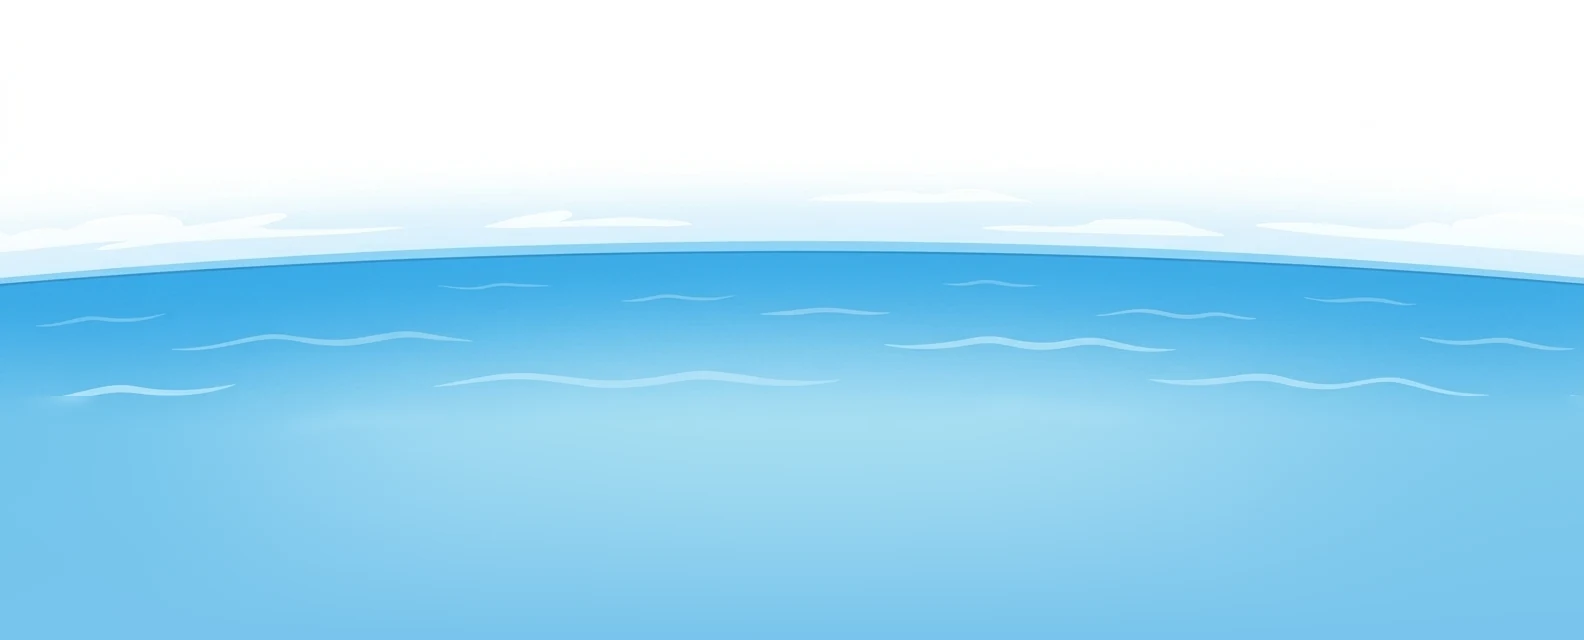
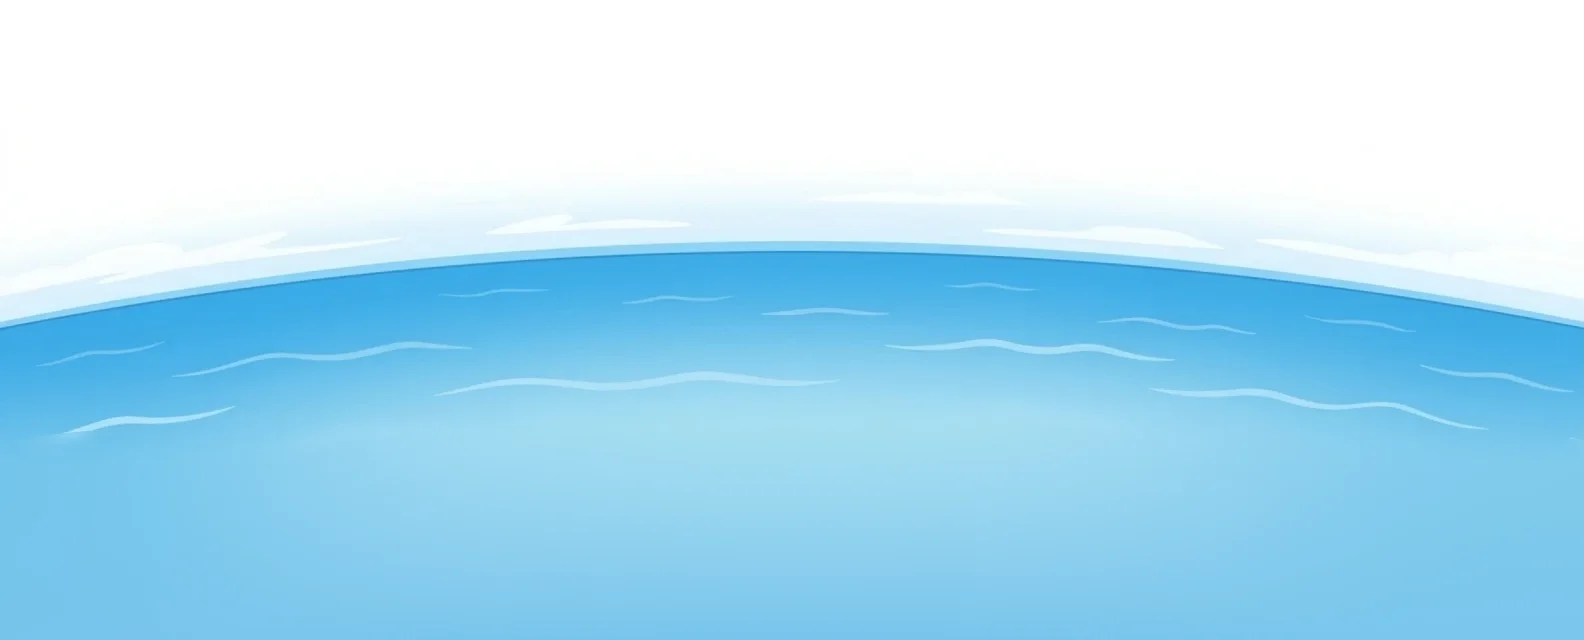
지구 대장정 띠: 수평선을 더 둥글게 · 지금 있는 곳을 보여 주는 작은 지구본(누르면 코스 지도)
Claude-Session: https://claude.ai/code/session_01AgCmpLpbzLfpx6hsfkwK9C

diff --git a/board.html b/board.html
@@ -91,6 +91,8 @@
   .ej-card { overflow: hidden; }
   .ej-scene { position: relative; margin: 10px -20px 0; height: 232px; }
   .ej-scene svg { display: block; position: absolute; inset: 0; overflow: hidden; }
+  .ej-globe { cursor: pointer; filter: drop-shadow(0 2px 4px rgba(20,80,127,.25)); }
+  .ej-globe:hover { filter: drop-shadow(0 3px 7px rgba(20,80,127,.4)); }
   .ej-kid { animation: ejHop .9s ease-in-out infinite; }
   .ej-pin b, .ej-lbl { font-family: inherit; }
   @keyframes ejHop { 0%, 100% { transform: translateY(0); } 50% { transform: translateY(-9px); } }
@@ -311,13 +313,41 @@ function schHtml(v){ const esc = function(x){ return String(x).replace(/[&<>"]/g
   const EJ_PLACE = [['asia',150,28,.85,.9],['euro',300,26,.85,.85],['afr',462,22,1.55,1],['mad',548,98,1,1],['sam',745,24,1.15,1],['nam',875,30,.72,.85],['grn',958,22,.9,.9],['aus',1030,92,.9,.9],['jpn',1100,26,1.2,1.2]];
   function ejSmooth(p){ const L = p.length, m = function(i){ const A = p[i % L], B = p[(i + 1) % L]; return [(A[0] + B[0]) / 2, (A[1] + B[1]) / 2]; };
     let d = 'M' + m(0).join(' '); for (let i = 1; i <= L; i++) { const q = p[i % L], e = m(i); d += 'Q' + q[0] + ' ' + q[1] + ' ' + e[0] + ' ' + e[1]; } return d + 'Z'; }
+  // 작은 지구본: 지금 있는 곳을 가운데로 돌린 지구 (img/journey/globe-tex.webp = 정거원통 지도 1024x512 를 정사영으로 그림). 누르면 코스 지도
+  let ejTex = null, ejTexLoading = false;
+  function ejLoadTex(){ if (ejTex || ejTexLoading) return; ejTexLoading = true;
+    const im = new Image(); im.onload = function(){ try { const c = document.createElement('canvas'); c.width = im.width; c.height = im.height; const g = c.getContext('2d'); g.drawImage(im, 0, 0); ejTex = { w: im.width, h: im.height, d: g.getImageData(0, 0, im.width, im.height).data }; ejDraw(); } catch (e) {} };
+    im.src = EJ_IMG + 'journey/globe-tex.webp'; }
+  function ejPos(cur){ let i = 0; EJ.forEach(function(c, j){ if (cur >= EJ_KM[j] * 1000) i = j; }); const j = Math.min(EJ.length - 1, i + 1), a = EJ[i], b = EJ[j];
+    const f = j === i ? 0 : Math.max(0, Math.min(1, (cur / 1000 - EJ_KM[i]) / (EJ_KM[j] - EJ_KM[i]))); let dl = b[2] - a[2]; if (dl > 180) dl -= 360; if (dl < -180) dl += 360;
+    return [a[1] + (b[1] - a[1]) * f, a[2] + dl * f]; }
+  function ejGlobe(size, lat, lon){
+    const r = Math.PI / 180, l0 = lon * r, p0 = Math.max(-35, Math.min(35, lat - 8)) * r, sp = Math.sin(p0), cp = Math.cos(p0);
+    const proj = function(la, lo){ const p = la * r, d = lo * r - l0, cc = sp * Math.sin(p) + cp * Math.cos(p) * Math.cos(d); return [Math.cos(p) * Math.sin(d), cp * Math.sin(p) - sp * Math.cos(p) * Math.cos(d), cc]; };
+    let img = '';
+    if (ejTex) { const dpr = Math.min(2, window.devicePixelRatio || 1), N = Math.round(size * dpr), c = document.createElement('canvas'); c.width = c.height = N; const g = c.getContext('2d'), o = g.createImageData(N, N), T = ejTex;
+      for (let py = 0; py < N; py++) for (let px = 0; px < N; px++) { const x = (px + .5) / N * 2 - 1, y = 1 - (py + .5) / N * 2, rho = Math.sqrt(x * x + y * y); if (rho > 1) continue;
+        const cc = Math.asin(rho), sc = Math.sin(cc), co = Math.cos(cc), la = rho ? Math.asin(co * sp + y * sc * cp / rho) : p0, lo = l0 + (rho ? Math.atan2(x * sc, rho * co * cp - y * sc * sp) : 0);
+        let u = ((lo / r + 180) % 360 + 360) % 360 / 360, v = (90 - la / r) / 180; const tx = Math.min(T.w - 1, Math.floor(u * T.w)), ty = Math.min(T.h - 1, Math.max(0, Math.floor(v * T.h))), ti = (ty * T.w + tx) * 4, oi = (py * N + px) * 4;
+        o.data[oi] = T.d[ti]; o.data[oi + 1] = T.d[ti + 1]; o.data[oi + 2] = T.d[ti + 2]; o.data[oi + 3] = rho > .985 ? Math.round(255 * (1 - rho) / .015) : 255; }
+      g.putImageData(o, 0, 0); img = '<image href="' + c.toDataURL() + '" x="0" y="0" width="' + size + '" height="' + size + '"/>'; }
+    else { ejLoadTex(); img = '<circle cx="' + size / 2 + '" cy="' + size / 2 + '" r="' + size / 2 + '" fill="#4FA8DE"/>'; }
+    // 코스: 앞면에 보이는 구간만
+    const R = size / 2, at = function(q){ return (R + q[0] * R).toFixed(1) + ' ' + (R - q[1] * R).toFixed(1); };
+    let route = ''; for (let i = 1; i < EJ.length; i++) { const a = proj(EJ[i - 1][1], EJ[i - 1][2]), b = proj(EJ[i][1], EJ[i][2]); if (a[2] > .05 && b[2] > .05) route += 'M' + at(a) + 'L' + at(b); }
+    const me = proj(lat, lon);
+    return img + '<circle cx="' + R + '" cy="' + R + '" r="' + R + '" fill="url(#ejGlobeShade)"/>' +
+      (route ? '<path d="' + route + '" fill="none" stroke="#fff" stroke-width="1.4" stroke-dasharray="1.5 2.5" stroke-linecap="round" opacity=".9"/>' : '') +
+      (me[2] > 0 ? '<circle cx="' + (R + me[0] * R).toFixed(1) + '" cy="' + (R - me[1] * R).toFixed(1) + '" r="' + Math.max(3, size / 18).toFixed(1) + '" fill="#F26A3D" stroke="#fff" stroke-width="1.6"/>' : '') +
+      '<circle cx="' + R + '" cy="' + R + '" r="' + (R - .6) + '" fill="none" stroke="#fff" stroke-width="1.2" opacity=".8"/>';
+  }
   function ejDraw(){
     const el = $('ejScene'); if (!el || !ejState) return;
     const W = el.clientWidth, H = el.clientHeight, narrow = W < 640, k = H / 232, kx = W / 1200;
     const cx = W / 2, rx = W * (narrow ? 0.95 : 0.6833), cy = 473 * k, ry = 403 * k, tr = 24 * k;
     const X0 = narrow ? 30 : 70 * Math.max(kx, .6), X1 = W - X0, goalKm = EJ_KM[EJ_KM.length - 1];
-    // 바다 그림(img/journey/world-sea.webp, 1584x640)의 수평선: 가운데가 높고 양 끝이 조금 낮은 완만한 곡선. o = 수평선에서 아래로 내려온 만큼
-    const yAt = function(x, o){ const t = (x - cx) / (W / 2); return H * (252 / 640) + H * (32 / 640) * t * t + o; };
+    // 바다 그림(img/journey/world-sea.webp, 1584x640)의 수평선: 가운데가 높고 양 끝이 낮은 둥근 곡선(둥근 지구 느낌). o = 수평선에서 아래로 내려온 만큼
+    const yAt = function(x, o){ const t = (x - cx) / (W / 2); return H * (252 / 640) + H * (76 / 640) * t * t + o; };
     const xOf = function(km){ return X0 + (X1 - X0) * km / goalKm; };
     const xMap = function(x){ return X0 + (X1 - X0) * (x - 70) / 1060; };
     const arc = function(xa, xb, o){ let d = ''; for (let x = xa; x < xb; x += 6) d += (d ? 'L' : 'M') + x.toFixed(1) + ' ' + yAt(x, o).toFixed(1); return d + (d ? 'L' : 'M') + xb.toFixed(1) + ' ' + yAt(xb, o).toFixed(1); };
@@ -366,12 +396,16 @@ function schHtml(v){ const esc = function(x){ return String(x).replace(/[&<>"]/g
     const ni = Math.min(EJ.length - 1, ai + 1), ls = narrow ? 54 : 78, right = xc < W * .62, lx = right ? W - ls - (narrow ? 10 : 22) : (narrow ? 10 : 22), ly = narrow ? 6 : 10;
     const boat = EJ_LM[EJ[ni][0]] ? '<g class="ej-lm"><image href="' + EJ_IMG + 'journey/w-' + EJ_LM[EJ[ni][0]] + '.webp" x="' + lx + '" y="' + ly + '" width="' + ls + '" height="' + ls + '" preserveAspectRatio="xMidYMax meet"/>' +
       '<text x="' + (right ? lx + ls : lx) + '" y="' + (ly + ls + (narrow ? 15 : 18)) + '" text-anchor="' + (right ? 'end' : 'start') + '" font-size="' + (narrow ? 11 : 13) + '" font-weight="800" fill="#14507F">' + (cur >= EJ_KM[ni] * 1000 ? '도착 · ' : '다음 · ') + EJ[ni][0] + '</text></g>' : '';
-    el.innerHTML = '<svg width="' + W + '" height="' + H + '" viewBox="0 0 ' + W + ' ' + H + '" aria-hidden="true">' +
+    // 작은 지구본: 랜드마크 바로 안쪽(아이와 먼 쪽) 하늘에 (누르면 코스 지도)
+    const gs = narrow ? 44 : 62, gx = right ? lx - gs - (narrow ? 8 : 14) : lx + ls + (narrow ? 8 : 14), gy = narrow ? 10 : 14, gp = ejPos(cur);
+    const globe = '<defs><radialGradient id="ejGlobeShade" cx=".38" cy=".32" r=".75"><stop offset="0" stop-color="#fff" stop-opacity=".28"/><stop offset=".55" stop-color="#fff" stop-opacity="0"/><stop offset="1" stop-color="#0B3E6B" stop-opacity=".45"/></radialGradient></defs>' +
+      '<g class="ej-globe" transform="translate(' + gx + ' ' + gy + ')" role="button" aria-label="코스 지도 보기"><title>코스 지도 보기</title>' + ejGlobe(gs, gp[0], gp[1]) + '</g>';
+    el.innerHTML = '<svg width="' + W + '" height="' + H + '" viewBox="0 0 ' + W + ' ' + H + '">' +
       '<image href="' + EJ_IMG + 'journey/world-sea.webp" x="0" y="0" width="' + W + '" height="' + H + '" preserveAspectRatio="none"/>' +
       land +
       '<path d="' + arc(X0, X1, tr) + '" fill="none" stroke="#fff" stroke-opacity=".9" stroke-width="5" stroke-dasharray="2 9" stroke-linecap="round"/>' +
       (xc > X0 + .5 ? '<path d="' + arc(X0, xc, tr) + '" fill="none" stroke="#F26A3D" stroke-width="6" stroke-linecap="round"/>' : '') +
-      pins + lbls + boat +
+      pins + lbls + boat + globe +
       '<g class="ej-kid"><image href="' + EJ_IMG + 'journey/' + (sea ? 'kid-boat' : 'kid') + '.webp" x="' + (xc - kw / 2).toFixed(1) + '" y="' + (ky - kh + (sea ? 6 : -2)).toFixed(1) + '" width="' + kw + '" height="' + kh.toFixed(1) + '"/></g></svg>';
   }
   let ejRT = 0; window.addEventListener('resize', function(){ clearTimeout(ejRT); ejRT = setTimeout(ejDraw, 120); });
@@ -773,6 +807,7 @@ const LAUREL_W = '<path d="M 74.7 169.5 L 53.9 157.9 L 37.8 140.1 L 28.3 118.3 L
     html += '<p class="hint o-end" style="text-align:center;">집계는 몇 분마다 새로 고쳐져요 · 마지막 갱신 ' + new Date(data.updated).toLocaleTimeString('ko-KR', { hour: '2-digit', minute: '2-digit' }) + '</p>';
     $('body').innerHTML = html;
     if ($('ejMapBtn')) $('ejMapBtn').onclick = showEarthMap;
+    if ($('ejScene')) $('ejScene').onclick = function(e){ if (e.target.closest && e.target.closest('.ej-globe')) showEarthMap(); };
     ejDraw();
 
     const subOf = function(t){ return mLabel(data.month) + (data.grade ? ' · ' + esc(data.grade) + '학년' : '') + t; };

diff --git a/club/board.html b/club/board.html
@@ -91,6 +91,8 @@
   .ej-card { overflow: hidden; }
   .ej-scene { position: relative; margin: 10px -20px 0; height: 232px; }
   .ej-scene svg { display: block; position: absolute; inset: 0; overflow: hidden; }
+  .ej-globe { cursor: pointer; filter: drop-shadow(0 2px 4px rgba(20,80,127,.25)); }
+  .ej-globe:hover { filter: drop-shadow(0 3px 7px rgba(20,80,127,.4)); }
   .ej-kid { animation: ejHop .9s ease-in-out infinite; }
   .ej-pin b, .ej-lbl { font-family: inherit; }
   @keyframes ejHop { 0%, 100% { transform: translateY(0); } 50% { transform: translateY(-9px); } }
@@ -311,13 +313,41 @@ function schHtml(v){ const esc = function(x){ return String(x).replace(/[&<>"]/g
   const EJ_PLACE = [['asia',150,28,.85,.9],['euro',300,26,.85,.85],['afr',462,22,1.55,1],['mad',548,98,1,1],['sam',745,24,1.15,1],['nam',875,30,.72,.85],['grn',958,22,.9,.9],['aus',1030,92,.9,.9],['jpn',1100,26,1.2,1.2]];
   function ejSmooth(p){ const L = p.length, m = function(i){ const A = p[i % L], B = p[(i + 1) % L]; return [(A[0] + B[0]) / 2, (A[1] + B[1]) / 2]; };
     let d = 'M' + m(0).join(' '); for (let i = 1; i <= L; i++) { const q = p[i % L], e = m(i); d += 'Q' + q[0] + ' ' + q[1] + ' ' + e[0] + ' ' + e[1]; } return d + 'Z'; }
+  // 작은 지구본: 지금 있는 곳을 가운데로 돌린 지구 (img/journey/globe-tex.webp = 정거원통 지도 1024x512 를 정사영으로 그림). 누르면 코스 지도
+  let ejTex = null, ejTexLoading = false;
+  function ejLoadTex(){ if (ejTex || ejTexLoading) return; ejTexLoading = true;
+    const im = new Image(); im.onload = function(){ try { const c = document.createElement('canvas'); c.width = im.width; c.height = im.height; const g = c.getContext('2d'); g.drawImage(im, 0, 0); ejTex = { w: im.width, h: im.height, d: g.getImageData(0, 0, im.width, im.height).data }; ejDraw(); } catch (e) {} };
+    im.src = EJ_IMG + 'journey/globe-tex.webp'; }
+  function ejPos(cur){ let i = 0; EJ.forEach(function(c, j){ if (cur >= EJ_KM[j] * 1000) i = j; }); const j = Math.min(EJ.length - 1, i + 1), a = EJ[i], b = EJ[j];
+    const f = j === i ? 0 : Math.max(0, Math.min(1, (cur / 1000 - EJ_KM[i]) / (EJ_KM[j] - EJ_KM[i]))); let dl = b[2] - a[2]; if (dl > 180) dl -= 360; if (dl < -180) dl += 360;
+    return [a[1] + (b[1] - a[1]) * f, a[2] + dl * f]; }
+  function ejGlobe(size, lat, lon){
+    const r = Math.PI / 180, l0 = lon * r, p0 = Math.max(-35, Math.min(35, lat - 8)) * r, sp = Math.sin(p0), cp = Math.cos(p0);
+    const proj = function(la, lo){ const p = la * r, d = lo * r - l0, cc = sp * Math.sin(p) + cp * Math.cos(p) * Math.cos(d); return [Math.cos(p) * Math.sin(d), cp * Math.sin(p) - sp * Math.cos(p) * Math.cos(d), cc]; };
+    let img = '';
+    if (ejTex) { const dpr = Math.min(2, window.devicePixelRatio || 1), N = Math.round(size * dpr), c = document.createElement('canvas'); c.width = c.height = N; const g = c.getContext('2d'), o = g.createImageData(N, N), T = ejTex;
+      for (let py = 0; py < N; py++) for (let px = 0; px < N; px++) { const x = (px + .5) / N * 2 - 1, y = 1 - (py + .5) / N * 2, rho = Math.sqrt(x * x + y * y); if (rho > 1) continue;
+        const cc = Math.asin(rho), sc = Math.sin(cc), co = Math.cos(cc), la = rho ? Math.asin(co * sp + y * sc * cp / rho) : p0, lo = l0 + (rho ? Math.atan2(x * sc, rho * co * cp - y * sc * sp) : 0);
+        let u = ((lo / r + 180) % 360 + 360) % 360 / 360, v = (90 - la / r) / 180; const tx = Math.min(T.w - 1, Math.floor(u * T.w)), ty = Math.min(T.h - 1, Math.max(0, Math.floor(v * T.h))), ti = (ty * T.w + tx) * 4, oi = (py * N + px) * 4;
+        o.data[oi] = T.d[ti]; o.data[oi + 1] = T.d[ti + 1]; o.data[oi + 2] = T.d[ti + 2]; o.data[oi + 3] = rho > .985 ? Math.round(255 * (1 - rho) / .015) : 255; }
+      g.putImageData(o, 0, 0); img = '<image href="' + c.toDataURL() + '" x="0" y="0" width="' + size + '" height="' + size + '"/>'; }
+    else { ejLoadTex(); img = '<circle cx="' + size / 2 + '" cy="' + size / 2 + '" r="' + size / 2 + '" fill="#4FA8DE"/>'; }
+    // 코스: 앞면에 보이는 구간만
+    const R = size / 2, at = function(q){ return (R + q[0] * R).toFixed(1) + ' ' + (R - q[1] * R).toFixed(1); };
+    let route = ''; for (let i = 1; i < EJ.length; i++) { const a = proj(EJ[i - 1][1], EJ[i - 1][2]), b = proj(EJ[i][1], EJ[i][2]); if (a[2] > .05 && b[2] > .05) route += 'M' + at(a) + 'L' + at(b); }
+    const me = proj(lat, lon);
+    return img + '<circle cx="' + R + '" cy="' + R + '" r="' + R + '" fill="url(#ejGlobeShade)"/>' +
+      (route ? '<path d="' + route + '" fill="none" stroke="#fff" stroke-width="1.4" stroke-dasharray="1.5 2.5" stroke-linecap="round" opacity=".9"/>' : '') +
+      (me[2] > 0 ? '<circle cx="' + (R + me[0] * R).toFixed(1) + '" cy="' + (R - me[1] * R).toFixed(1) + '" r="' + Math.max(3, size / 18).toFixed(1) + '" fill="#F26A3D" stroke="#fff" stroke-width="1.6"/>' : '') +
+      '<circle cx="' + R + '" cy="' + R + '" r="' + (R - .6) + '" fill="none" stroke="#fff" stroke-width="1.2" opacity=".8"/>';
+  }
   function ejDraw(){
     const el = $('ejScene'); if (!el || !ejState) return;
     const W = el.clientWidth, H = el.clientHeight, narrow = W < 640, k = H / 232, kx = W / 1200;
     const cx = W / 2, rx = W * (narrow ? 0.95 : 0.6833), cy = 473 * k, ry = 403 * k, tr = 24 * k;
     const X0 = narrow ? 30 : 70 * Math.max(kx, .6), X1 = W - X0, goalKm = EJ_KM[EJ_KM.length - 1];
-    // 바다 그림(img/journey/world-sea.webp, 1584x640)의 수평선: 가운데가 높고 양 끝이 조금 낮은 완만한 곡선. o = 수평선에서 아래로 내려온 만큼
-    const yAt = function(x, o){ const t = (x - cx) / (W / 2); return H * (252 / 640) + H * (32 / 640) * t * t + o; };
+    // 바다 그림(img/journey/world-sea.webp, 1584x640)의 수평선: 가운데가 높고 양 끝이 낮은 둥근 곡선(둥근 지구 느낌). o = 수평선에서 아래로 내려온 만큼
+    const yAt = function(x, o){ const t = (x - cx) / (W / 2); return H * (252 / 640) + H * (76 / 640) * t * t + o; };
     const xOf = function(km){ return X0 + (X1 - X0) * km / goalKm; };
     const xMap = function(x){ return X0 + (X1 - X0) * (x - 70) / 1060; };
     const arc = function(xa, xb, o){ let d = ''; for (let x = xa; x < xb; x += 6) d += (d ? 'L' : 'M') + x.toFixed(1) + ' ' + yAt(x, o).toFixed(1); return d + (d ? 'L' : 'M') + xb.toFixed(1) + ' ' + yAt(xb, o).toFixed(1); };
@@ -366,12 +396,16 @@ function schHtml(v){ const esc = function(x){ return String(x).replace(/[&<>"]/g
     const ni = Math.min(EJ.length - 1, ai + 1), ls = narrow ? 54 : 78, right = xc < W * .62, lx = right ? W - ls - (narrow ? 10 : 22) : (narrow ? 10 : 22), ly = narrow ? 6 : 10;
     const boat = EJ_LM[EJ[ni][0]] ? '<g class="ej-lm"><image href="' + EJ_IMG + 'journey/w-' + EJ_LM[EJ[ni][0]] + '.webp" x="' + lx + '" y="' + ly + '" width="' + ls + '" height="' + ls + '" preserveAspectRatio="xMidYMax meet"/>' +
       '<text x="' + (right ? lx + ls : lx) + '" y="' + (ly + ls + (narrow ? 15 : 18)) + '" text-anchor="' + (right ? 'end' : 'start') + '" font-size="' + (narrow ? 11 : 13) + '" font-weight="800" fill="#14507F">' + (cur >= EJ_KM[ni] * 1000 ? '도착 · ' : '다음 · ') + EJ[ni][0] + '</text></g>' : '';
-    el.innerHTML = '<svg width="' + W + '" height="' + H + '" viewBox="0 0 ' + W + ' ' + H + '" aria-hidden="true">' +
+    // 작은 지구본: 랜드마크 바로 안쪽(아이와 먼 쪽) 하늘에 (누르면 코스 지도)
+    const gs = narrow ? 44 : 62, gx = right ? lx - gs - (narrow ? 8 : 14) : lx + ls + (narrow ? 8 : 14), gy = narrow ? 10 : 14, gp = ejPos(cur);
+    const globe = '<defs><radialGradient id="ejGlobeShade" cx=".38" cy=".32" r=".75"><stop offset="0" stop-color="#fff" stop-opacity=".28"/><stop offset=".55" stop-color="#fff" stop-opacity="0"/><stop offset="1" stop-color="#0B3E6B" stop-opacity=".45"/></radialGradient></defs>' +
+      '<g class="ej-globe" transform="translate(' + gx + ' ' + gy + ')" role="button" aria-label="코스 지도 보기"><title>코스 지도 보기</title>' + ejGlobe(gs, gp[0], gp[1]) + '</g>';
+    el.innerHTML = '<svg width="' + W + '" height="' + H + '" viewBox="0 0 ' + W + ' ' + H + '">' +
       '<image href="' + EJ_IMG + 'journey/world-sea.webp" x="0" y="0" width="' + W + '" height="' + H + '" preserveAspectRatio="none"/>' +
       land +
       '<path d="' + arc(X0, X1, tr) + '" fill="none" stroke="#fff" stroke-opacity=".9" stroke-width="5" stroke-dasharray="2 9" stroke-linecap="round"/>' +
       (xc > X0 + .5 ? '<path d="' + arc(X0, xc, tr) + '" fill="none" stroke="#F26A3D" stroke-width="6" stroke-linecap="round"/>' : '') +
-      pins + lbls + boat +
+      pins + lbls + boat + globe +
       '<g class="ej-kid"><image href="' + EJ_IMG + 'journey/' + (sea ? 'kid-boat' : 'kid') + '.webp" x="' + (xc - kw / 2).toFixed(1) + '" y="' + (ky - kh + (sea ? 6 : -2)).toFixed(1) + '" width="' + kw + '" height="' + kh.toFixed(1) + '"/></g></svg>';
   }
   let ejRT = 0; window.addEventListener('resize', function(){ clearTimeout(ejRT); ejRT = setTimeout(ejDraw, 120); });
@@ -773,6 +807,7 @@ const LAUREL_W = '<path d="M 74.7 169.5 L 53.9 157.9 L 37.8 140.1 L 28.3 118.3 L
     html += '<p class="hint o-end" style="text-align:center;">집계는 몇 분마다 새로 고쳐져요 · 마지막 갱신 ' + new Date(data.updated).toLocaleTimeString('ko-KR', { hour: '2-digit', minute: '2-digit' }) + '</p>';
     $('body').innerHTML = html;
     if ($('ejMapBtn')) $('ejMapBtn').onclick = showEarthMap;
+    if ($('ejScene')) $('ejScene').onclick = function(e){ if (e.target.closest && e.target.closest('.ej-globe')) showEarthMap(); };
     ejDraw();
 
     const subOf = function(t){ return mLabel(data.month) + (data.grade ? ' · ' + esc(data.grade) + '학년' : '') + t; };
